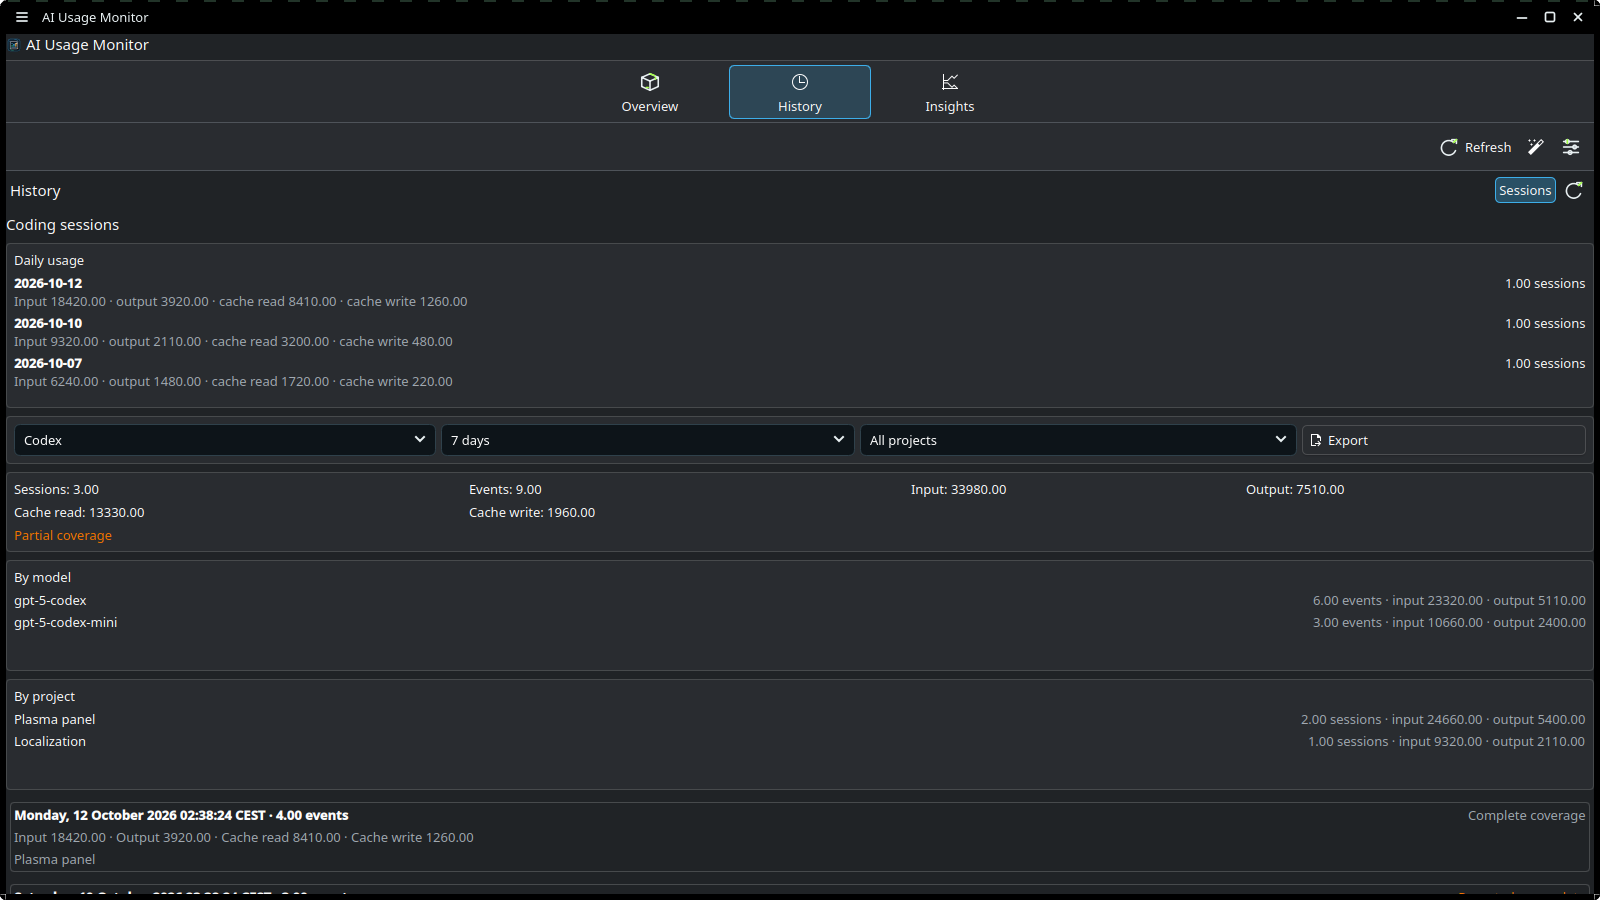
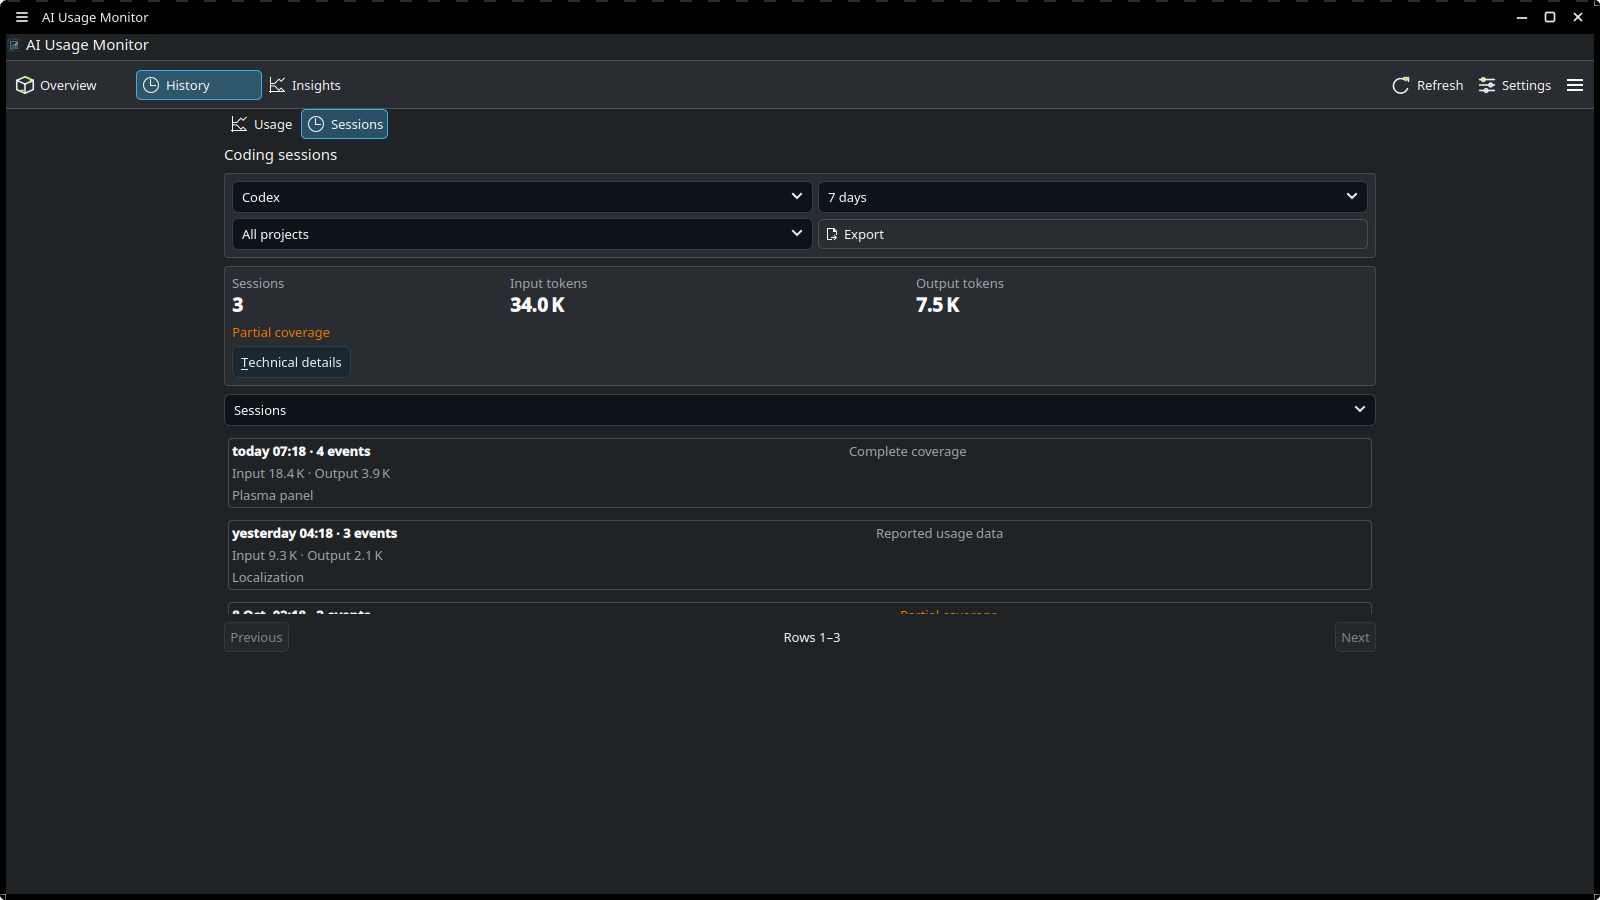
chore(release): prepare 24.1.0 readable usage monitor

diff --git a/README.md b/README.md
@@ -6,14 +6,13 @@
 
 AI Usage Monitor puts trustworthy daily AI usage, spend, quota, reset, and local coding-tool status in your Plasma panel. It stores API keys in KWallet and keeps history on your computer.
 
-The **24.0.1 release (Source Detail layout hotfix)** fixes overlapping content
-when local coding-session history is enabled. V24.0.0 introduced explicit opt-in history
-for Codex and Claude Code, anonymous project filters, local aliases,
-model/token summaries, and redacted JSON/CSV session exports. Existing provider
-integrations, quotas, budgets, and export formats remain available.
+The **24.1.0 release (Readable Usage Monitor)** brings clearer usage cards,
+responsive navigation, streamlined source metrics and Insights, and unified coding
+session exploration in History. Opt-in Codex and Claude Code history, anonymous
+project filters, local aliases, and redacted exports remain available.
 See the [V24 user guide](docs/user-guide/coding-sessions.md),
-[qualification checklist](docs/release/v24.0.0-checklist.md), and
-[GitHub Releases](https://github.com/loofiboss-bit/plasma-ai-usage-monitor/releases/tag/v24.0.1).
+[qualification checklist](docs/release/v24.1.0-checklist.md), and
+[GitHub Releases](https://github.com/loofiboss-bit/plasma-ai-usage-monitor/releases/tag/v24.1.0).
 The screenshots below use deterministic synthetic fixtures.
 
 ![Narrow AI Usage Monitor Overview popup](assets/screenshots/overview-popup.png)

diff --git a/docs/release/v24.1.0-checklist.md b/docs/release/v24.1.0-checklist.md
@@ -1,0 +1,18 @@
+# V24.1.0 Readable Usage Monitor
+
+Status: release candidate.
+
+Provider API keys and live provider accounts are optional release evidence and never block publication.
+
+Publish `v24.1.0` directly from the verified `main` commit after the required gates pass. The annotated tag must resolve to that exact commit and trigger the canonical Release workflow.
+
+## Scope and validation
+
+- Clearer Overview, Daily Focus, Source Details, Insights, panel, and settings.
+- Unified coding session exploration in History with Sessions, By Day, and By Project views.
+- Responsive navigation, reusable metric tiles, humanized times, and less repetitive status text.
+- Run `just check`, `just qml-lint`, `just release-check`, and Debug CTest.
+- Refresh deterministic release screenshots against the exact candidate.
+- Verify GitHub release assets and provenance, Fedora 43/44 COPR builds, and KDE Store version and artifact identity.
+
+Physical keyboard navigation, screen-reader behavior, and display scaling are not manually qualified by automated checks or isolated screenshot capture.

diff --git a/docs/user-guide/coding-sessions.md b/docs/user-guide/coding-sessions.md
@@ -29,8 +29,10 @@ original tool logs.
 Projects are represented with anonymous local identities, not filesystem
 paths. Optional aliases can be assigned in Settings and are stored only on
 this computer. Clearing session history also clears aliases. Filters use the
-same anonymous project identity across Overview, Source Detail, History and
-Insights.
+same anonymous project identity in Source Detail and History. Explore sessions,
+daily totals, and projects in **History → Sessions**, using **Sessions**,
+**By Day**, and **By Project**. Source Detail provides a compact summary and
+a direct link to History.
 
 ## Read the token values
 

diff --git a/docs/wiki/Coding-Sessions.md b/docs/wiki/Coding-Sessions.md
@@ -30,8 +30,10 @@ original tool logs.
 Projects are represented with anonymous local identities, not filesystem
 paths. Optional aliases can be assigned in Settings and are stored only on
 this computer. Clearing session history also clears aliases. Filters use the
-same anonymous project identity across Overview, Source Detail, History and
-Insights.
+same anonymous project identity in Source Detail and History. Explore sessions,
+daily totals, and projects in **History → Sessions**, using **Sessions**,
+**By Day**, and **By Project**. Source Detail provides a compact summary and
+a direct link to History.
 
 ## Read the token values
 

diff --git a/docs/release/v24.1.0-notes.md b/docs/release/v24.1.0-notes.md
@@ -1,0 +1,9 @@
+# V24.1.0 — A clearer usage monitor
+
+- Scan usage and source health faster with cleaner Overview and Daily Focus cards.
+- Explore coding sessions in one place: History → Sessions, By Day, or By Project.
+- Read key source metrics first, with clearer reset countdowns and actionable health banners.
+- Use streamlined Insights, balanced navigation, and more readable panel labels.
+- Find technical endpoint diagnostics under Advanced settings.
+
+The KDE Store widget requires the matching 24.1.0 native plugin from COPR or a source build.

diff --git a/docs/plans/PLASMA_AI_USAGE_MONITOR_V24_PLAN.md b/docs/plans/PLASMA_AI_USAGE_MONITOR_V24_PLAN.md
@@ -1,7 +1,7 @@
 # V24 Coding Sessions & Projects
 
-- **Target release:** `24.0.1` (V24.0.0 was the initial session feature release)
-- **Status:** the V24 session feature is published; this authorized hotfix corrects Source Detail layout when local sessions are enabled.
+- **Target release:** `24.1.0` (V24.0.0 was the initial session feature release)
+- **Status:** the V24 session feature is published; the authorized 24.1.0 release improves readability and consolidates session exploration in History.
 
 ## Goal
 

diff --git a/ROADMAP.md b/ROADMAP.md
@@ -1,10 +1,16 @@
 # Roadmap
 
-**Current release:** 24.0.1, Coding Sessions & Projects
+**Current release:** 24.1.0, Readable Usage Monitor
 
 **Last updated:** 2026-10-12
 
 ## Current release
+
+### 24.1.0 Readable Usage Monitor
+
+Clearer usage cards, responsive navigation, unified session exploration in History,
+and streamlined source details, Insights, panel labels, and advanced diagnostics.
+See the [qualification checklist](docs/release/v24.1.0-checklist.md).
 
 ### 24.0.1 Coding Sessions Layout Hotfix
 
